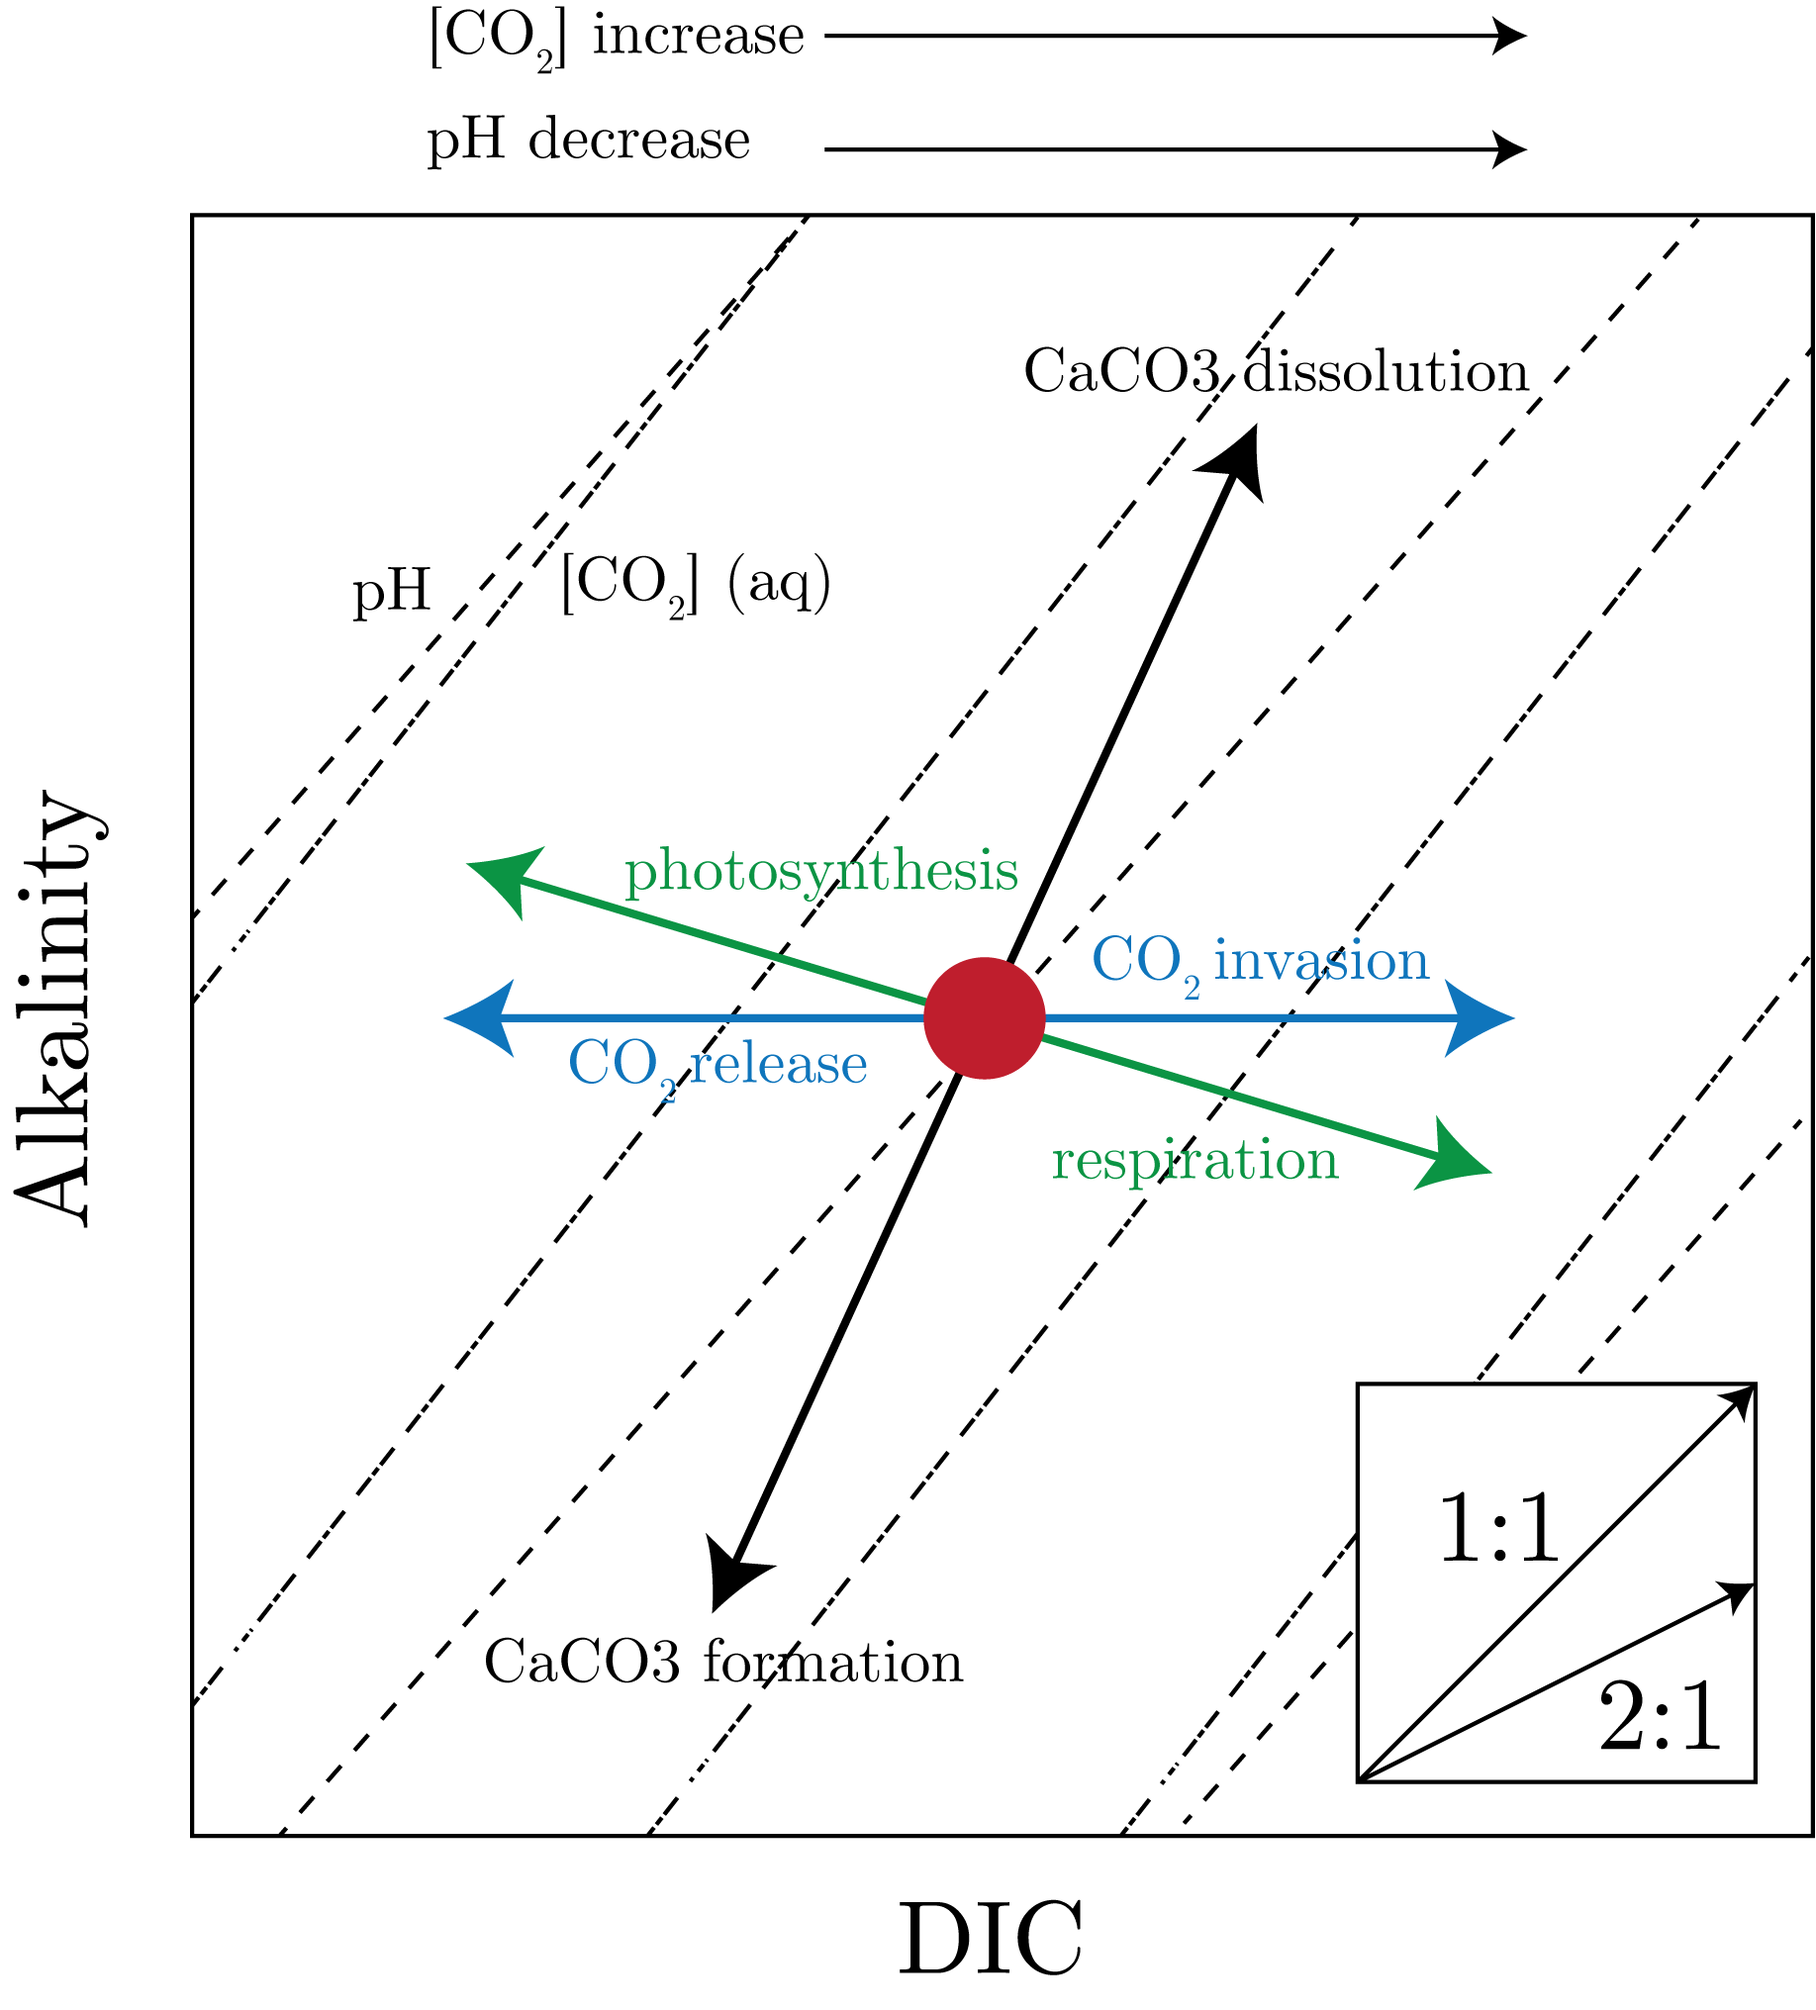
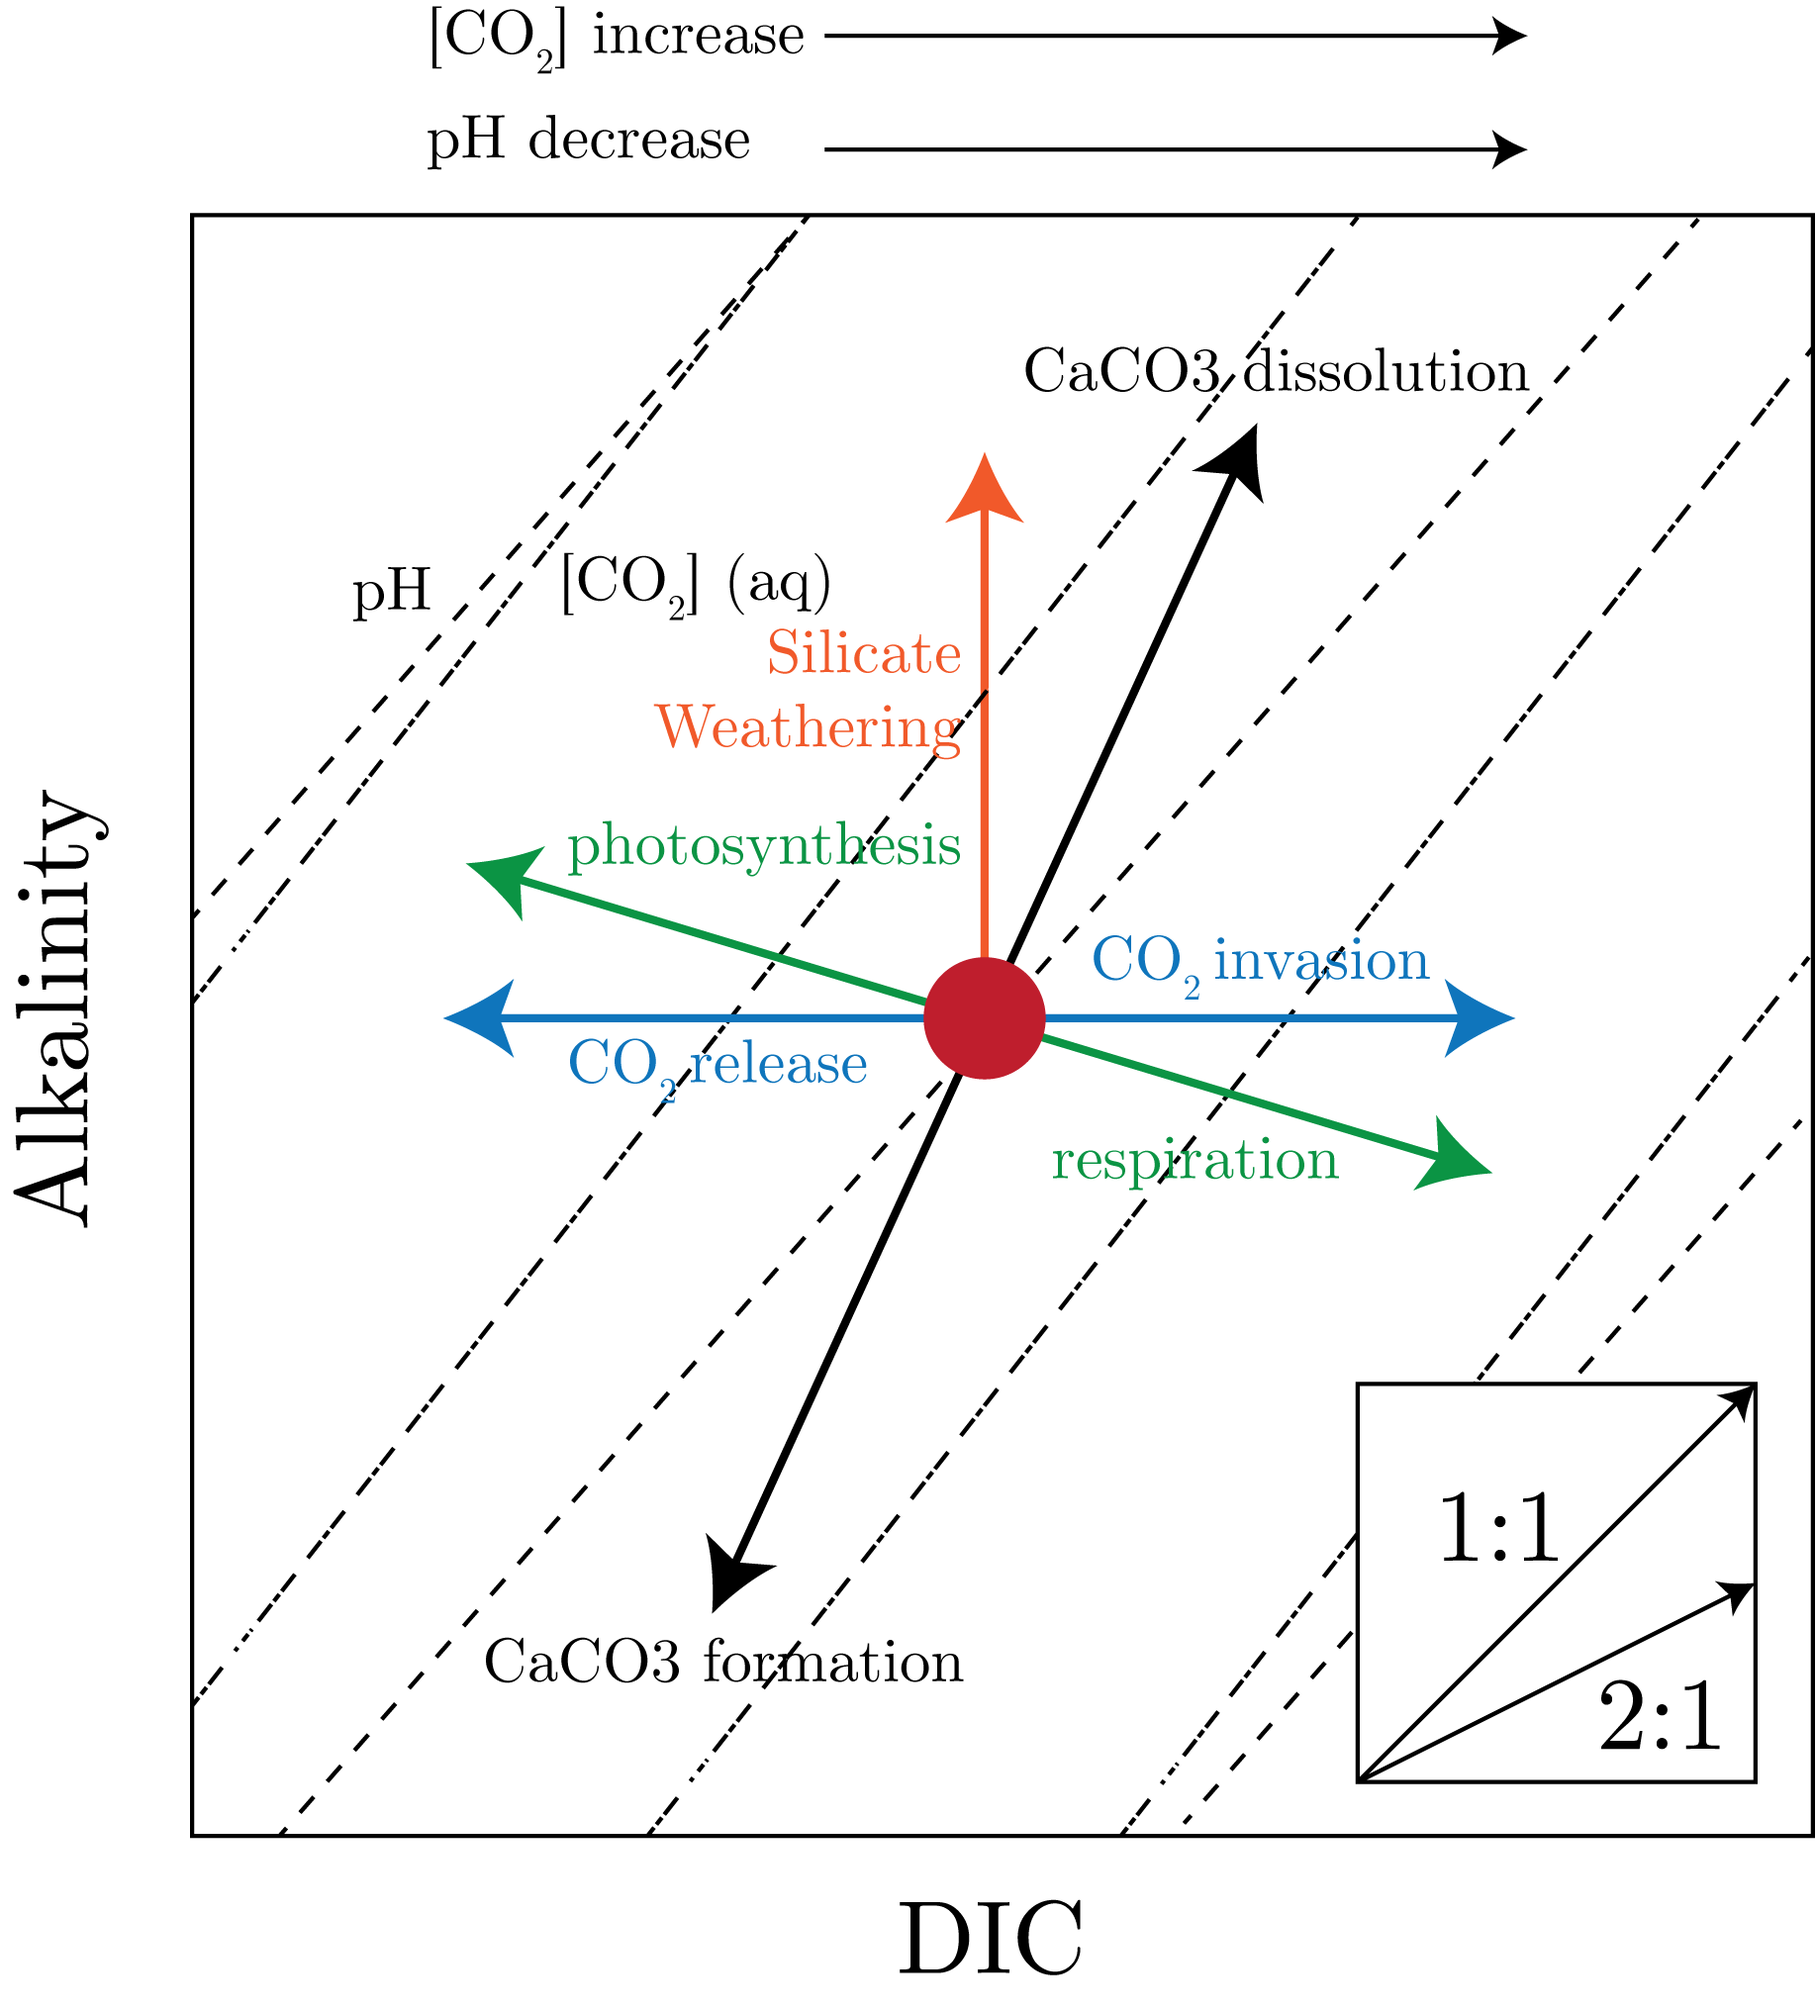
finalizing l16

Changed region(s): [[0.3106, 0.2171, 0.5591, 0.4653]]

diff --git a/blog/course_notes/courses/12742/lectures/lecture14/12742_lecture14.html b/blog/course_notes/courses/12742/lectures/lecture14/12742_lecture14.html
@@ -184,8 +184,14 @@ We list the processes and their slopes now:
 <th>$+2$</th>
 <th>$+1$</th>
 </tr>
+<tr>
+	<th>Silicate Weathering: $\text{H}_2\text{O} + 2\text{CaSiO}_2 + 2\text{CO}_2 \to  2\text{Ca}^{2+} + 2\text{HCO}_3^{-} + \text{SiO}_2 \quad$</th>
+<th>$+2$</th>
+<th>$0$</th>
+</tr>
 </table>
 We note for calcification that it is an important processes for the oceans, as many organisms such as coccolithophores use it to produce shells, and about 80% of surface carbon is calcium carbonate and 20% is organic carbon.
+Silicate weathering is extremely important for alkalinity enhancement which then means that we can take up more $\text{CO}_2$, and drives a cooling feedback
 Now, we can map all of this onto the oceans, as we have done in Fig. 2. 
 <figure>
 	<img src="images/at_ct_oceans.png" style="width:60%">
@@ -265,9 +271,46 @@ We can see from Fig. 3 most of the surface ocean is supersaturated for calcite.
 This is where we see most of the calcification, at the ocean surface, which thermodynamically makes sense to reach equilibrium (as discussed previously).
 As we go deeper, we see the carbonate ion going down, which is the biological carbon pump which respires organic matter, producing $\text{CO}_2$. 
 We then are pushed toward equilibrium with depth. 
-Note that calcite becomes more soluble with depth, which is the pressure effect in play.
+Note that calcite becomes more soluble with depth, which is the pressure effect in play, that causes the saturation curves to be non-linear.
 The saturation horizon is much lower along the conveyor belt, as there is more carbonate ion in the water given the accumulation of the respire organic matter.
 We note that aragonite has a higher saturation state than calcite.
+We can look at sediment $\text{CaCO}_3$ maps and see that they look more than bathymetry more so than productivity. 
+This comes from the fact that it is really depth that dictates how much $\text{CaCO}_3$ is sediment, much like the snow line on a mountain (as calcium carbonate is a light mineral). 
+We can make depths of sediment values and see that they show there is something else at play. 
+<p>
+We define a few terms to understand this. 
+First, we define the <b>lysocline</b> as the depth range over which %$\text{CaCO}_3$ decreases sharply (decrease from 80-90% to 5-10%). 
+Next, we define the <b>calcite compensation depth</b> is the depth at which the calcite rain is balanced by dissolution of $\text{CaCO}_3$ out of the sediments, which can be locally or globally defined.
+We can then define this mathematically as:
+\begin{equation}
+	F_{\text{burial}} = F_{\text{rain}} - F_{\text{dissolution}} = 0.
+\end{equation}
+This term allows us to account for sedimentation of calcite globally, or we could have it as a reference to the N. Pacific, which is the end of the conveyor belt and therefore the most calcite/remineralized organic material.
+</p>
+
+<h3>Kinetics of $\text{CaCO}_3$</h3>
+
+From our above equations for $\text{CaCO}_3$ dissolution, solubility product, and $\Omega$, we can move away from thermodynamics to kinetics to get a rate:
+\begin{equation}
+R_{\text{diss}} = k_f\{\text{CaCO}_3\} - k_r\left[\text{Ca}^{2+}\right]\left[\text{CO}_3^{2-}\right] = 0,
+\end{equation}
+assuming equilibrium. Then, assuming the solid $\text{CaCO}_3$ is 1, we get that:
+\begin{equation}
+	R_{\text{diss}} = k_f(1 - \Omega),
+\end{equation}
+which says that our dissolution rate is going to be linear with $(1 - \Omega)$.
+There are a number cool power laws that we can get from data, for instance putting highly polished calcite spheres in the ocean at different depths to get the dissolition rates. 
+The result is a set of power laws of the form:
+\begin{equation}
+R_{\text{diss}} = k_f(1 - \Omega)^{n},
+\end{equation}
+for $n$ the range of power laws.
+Recent work as shown that there are three regimes: homogeneous, defect-assisted, and step retreat, which are physical chemical terms to do with the matrix of $\text{CaCO}_3$.
+
+<h3>$\text{CaCO}_3$ Ocean Budget</h3>
+
+We have that the shallow $\text{CaCO}_3$ dissolution is needed in order to balance the $\text{CaCO}_3$ budget in the ocean, largely driven by biology.
+As $\text{CaCO}_3$ is heavy, this sinks well, and it is therefore a good way of sequestering carbon in the deep ocean.
 
 <hr style="width: 60em;">
 

diff --git a/blog/course_notes/12742.html b/blog/course_notes/12742.html
@@ -94,11 +94,6 @@ The lectures from this course are as follows:
 	<li><a href="https://perrinwdavidson.github.io/blog/course_notes/courses/12742/lectures/lecture21/12742_lecture21.html">Lecture 21</a></li>
 	<li><a href="https://perrinwdavidson.github.io/blog/course_notes/courses/12742/lectures/lecture22/12742_lecture22.html">Lecture 22</a></li>
 	<li><a href="https://perrinwdavidson.github.io/blog/course_notes/courses/12742/lectures/lecture23/12742_lecture23.html">Lecture 23</a></li>
-	<li><a href="https://perrinwdavidson.github.io/blog/course_notes/courses/12742/lectures/lecture24/12742_lecture24.html">Lecture 24</a></li>
-	<li><a href="https://perrinwdavidson.github.io/blog/course_notes/courses/12742/lectures/lecture25/12742_lecture25.html">Lecture 25</a></li>
-	<li><a href="https://perrinwdavidson.github.io/blog/course_notes/courses/12742/lectures/lecture26/12742_lecture26.html">Lecture 26</a></li>
-	<li><a href="https://perrinwdavidson.github.io/blog/course_notes/courses/12742/lectures/lecture27/12742_lecture27.html">Lecture 27</a></li>
-	<li><a href="https://perrinwdavidson.github.io/blog/course_notes/courses/12742/lectures/lecture28/12742_lecture28.html">Lecture 28</a></li>
 </ul>
 </p>
 
